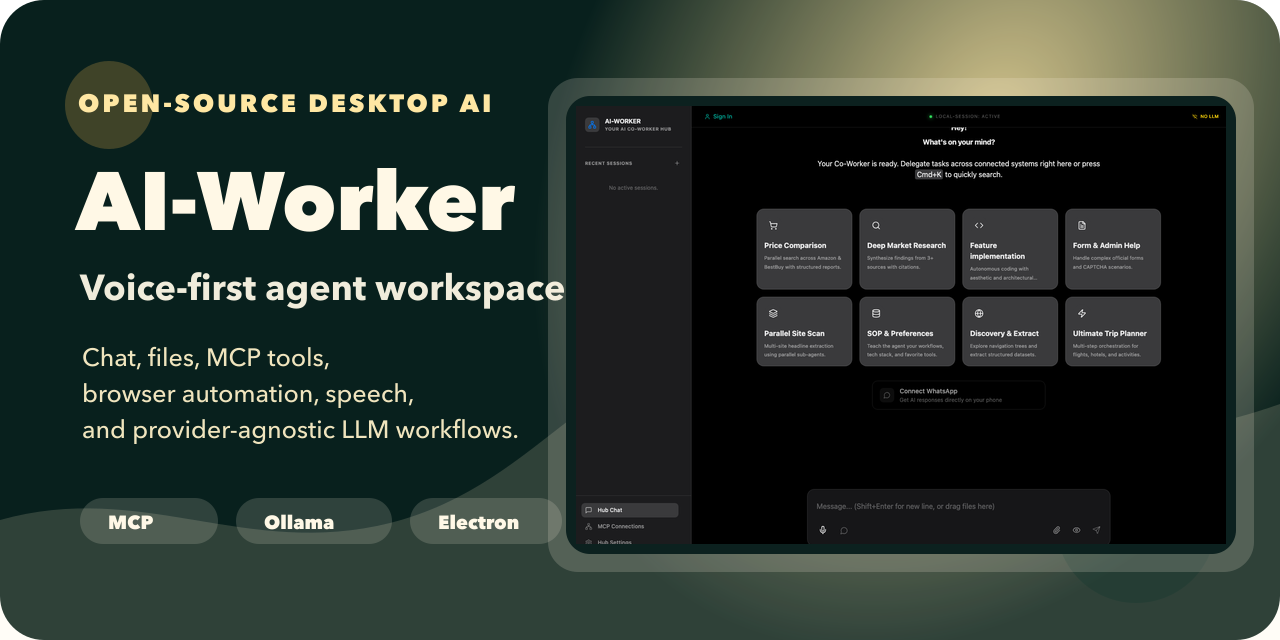
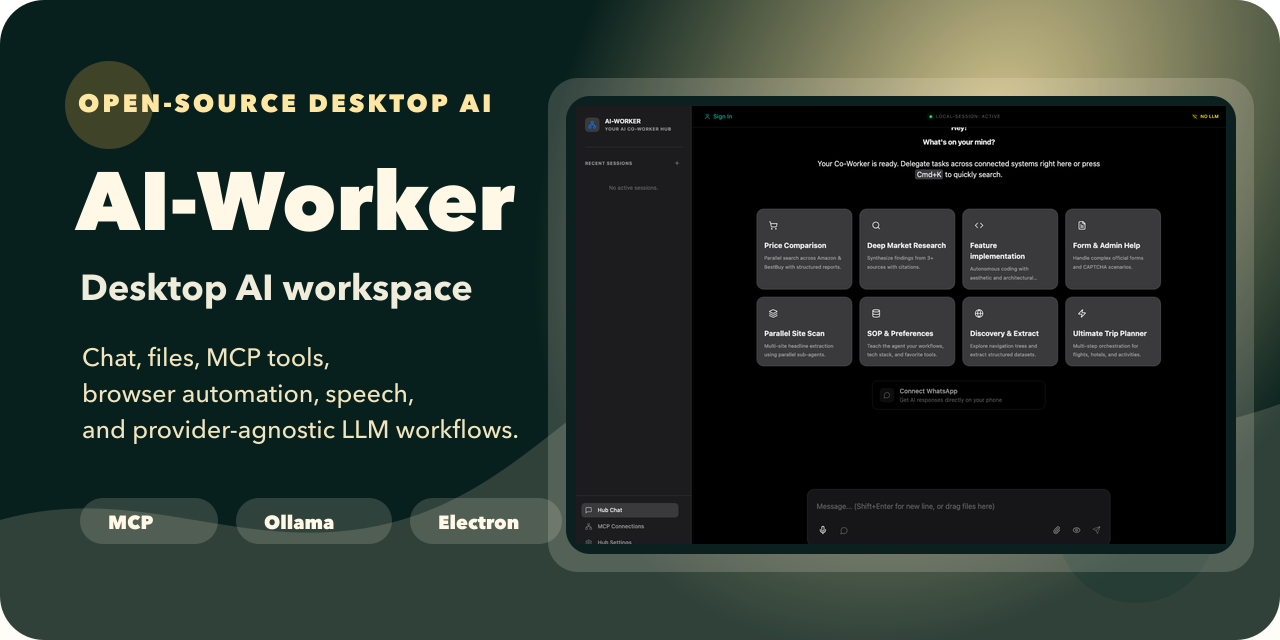
docs: remove voice-first positioning

Changed region(s): [[0.0625, 0.4062, 0.4375, 0.5]]

diff --git a/src/renderer/src/components/SettingsPanel.tsx b/src/renderer/src/components/SettingsPanel.tsx
@@ -414,7 +414,7 @@ export function SettingsPanel({ onClose }: SettingsPanelProps) {
                                 <h4 className="text-[var(--text-2xl)] font-[var(--font-weight-bold)] text-[var(--color-text-primary)]">{APP_INFO.NAME}</h4>
                                 <p className="text-[var(--text-sm)] text-[var(--color-text-muted)] mt-[var(--space-1)]">Version {APP_INFO.VERSION}</p>
                                 <p className="text-[var(--text-sm)] text-[var(--color-text-secondary)] mt-[var(--space-4)] max-w-sm mx-auto">
-                                    Voice-first desktop workspace with MCP integration. Built for AI-assisted productivity.
+                                    Desktop AI workspace with MCP integration. Built for AI-assisted productivity.
                                 </p>
                                 <div className="mt-[var(--space-6)] pt-[var(--space-4)] border-t border-[var(--color-border)]">
                                     <p className="text-[var(--text-xs)] text-[var(--color-text-dim)]">

diff --git a/README.md b/README.md
@@ -4,7 +4,7 @@
 [![License: MIT](https://img.shields.io/badge/License-MIT-green.svg)](./LICENSE)
 [![Community](https://img.shields.io/badge/community-guidelines-00b894.svg)](./CONTRIBUTING.md)
 
-AI-Worker is an open-source, voice-first desktop AI workspace for people who want one local hub for chat, files, browser automation, MCP tools, and provider-agnostic LLM workflows.
+AI-Worker is an open-source desktop AI workspace for people who want one local hub for chat, files, browser automation, MCP tools, and provider-agnostic LLM workflows.
 
 ![AI-Worker home screen](./docs/screenshots/chat-home.png)
 
@@ -16,7 +16,7 @@ Use it to coordinate research, document extraction, local file work, browser tas
 
 ## Features
 
-- Voice-first chat workspace with text input, file drag-and-drop, and workflow starter tiles.
+- Desktop chat workspace with text input, speech input, file drag-and-drop, and workflow starter tiles.
 - MCP connections for memory, filesystem access, MarkItDown document conversion, and browser automation.
 - Provider choices for Ollama, OpenAI-compatible APIs, Gemini, OpenRouter, auto mode, and on-device paths where available.
 - Offline/local Vosk speech recognition configuration.

diff --git a/Problem statement.md b/Problem statement.md
@@ -9,7 +9,7 @@
 
 # AI-Worker: Problem Statement & Requirements
 
-AI-Worker is a voice-first desktop workspace designed to revolutionize productivity by integrating Large Language Models (LLMs) with everyday applications and files using the Model Context Protocol (MCP). We are currently in the active MVP development stage, providing high-performance orchestration via secure cloud-based LLM connectivity.
+AI-Worker is a desktop AI workspace designed to improve productivity by integrating Large Language Models (LLMs) with everyday applications and files using the Model Context Protocol (MCP). We are currently in the active MVP development stage, providing high-performance orchestration via secure cloud-based LLM connectivity.
 
 ---
 
@@ -35,7 +35,7 @@ A universal bridge using MCP to connect state-of-the-art LLMs (Cloud) to local a
 
 ## Functional Requirements
 
-### 1. Voice-First Interface
+### 1. Speech-Enabled Interface
 
 #### 1.1 Speech Recognition (STT)
 - ✅ **Push-to-talk voice input** - Click microphone button to start/stop recording

diff --git a/docs/USER_GUIDE.md b/docs/USER_GUIDE.md
@@ -1,6 +1,6 @@
 # User Guide 📖
 
-AI-Worker is a voice-first, local-first intelligent assistant workspace that runs directly on your desktop. It integrates seamlessly with external tools using the Model Context Protocol (MCP) and automates tasks directly on your computer.
+AI-Worker is a local-first intelligent assistant workspace that runs directly on your desktop. It integrates seamlessly with external tools using the Model Context Protocol (MCP) and automates tasks directly on your computer.
 
 ---
 
@@ -30,7 +30,7 @@ Press `Cmd+K` or `Ctrl+K` to open the command palette for navigation and quick a
 
 ---
 
-## 🎤 Voice-First Interface
+## 🎤 Speech Input
 
 AI-Worker allows you to command your workspace using natural speech.
 

diff --git a/plan.md b/plan.md
@@ -1,6 +1,6 @@
 # AI-Worker: Detailed Development & Handoff Plan
 
-AI-Worker is a voice-first desktop workspace that uses the Model Context Protocol (MCP) to bridge LLMs with local tools and files.
+AI-Worker is a desktop AI workspace that uses the Model Context Protocol (MCP) to bridge LLMs with local tools and files.
 
 ## 🎯 Architecture & Tech Stack
 
@@ -578,4 +578,3 @@ ai-worker-app/
 ---
 
 **Current Status:** Phases 1-18 complete. RPI Workflow + Sub-Agent Auto-Fork system implemented. App Launch Preparation (Phase 16) is now the primary focus.
-

diff --git a/docs/usage.md b/docs/usage.md
@@ -87,7 +87,7 @@ Speech recognition details:
 Use this when:
 
 - you want hands-free prompting
-- you are testing voice-first workflows
+- you are testing speech-enabled workflows
 - you prefer local speech recognition over remote services
 
 ## Manage MCP Connections
